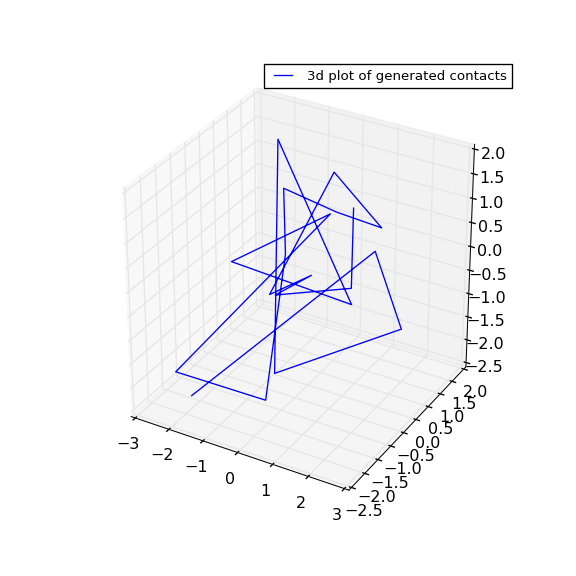
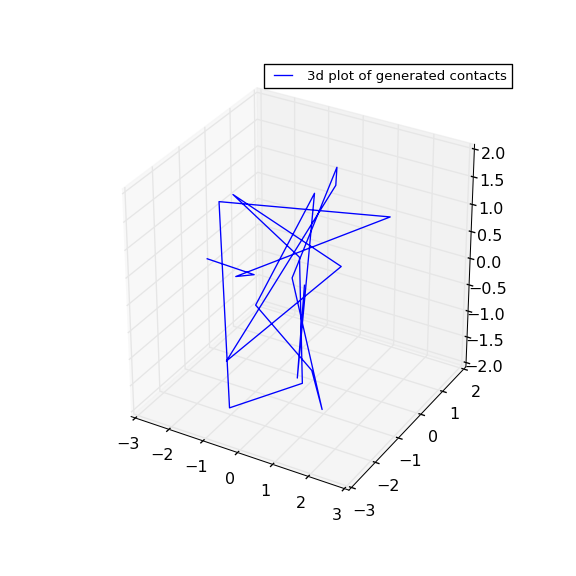
massive speed increase and changes to score calculation

diff --git a/src/ChromoUtils.py b/src/ChromoUtils.py
@@ -25,6 +25,7 @@ class C:
 	da_sq_max = 1.8
 	d_max = 4.5
 	d_sq_c = 7.0
+	d_c = math.sqrt(d_sq_c)
 	d_sq_max = d_max * d_max
 
 	def __init__(self,num_contacts,if_filename=None,if_file=None):
@@ -53,6 +54,7 @@ class C7:
 	da_sq_max = 1.8
 	d_max = 4.5
 	d_sq_c = 7.0
+	d_c = math.sqrt(d_sq_c)
 	d_sq_max = d_max * d_max
 
 	NUMBER_CONTACTS = 157
@@ -81,26 +83,26 @@ class Chromo:
 	        self.coordinate_data[i] = bounding_box * (0.5 - random.random())
 
 	def generate_neighborhood(self,scale=0.5):
-		random_index = random.randint(0,self.C.NUMBER_CONTACTS)
+		index = random.randint(0,self.C.NUMBER_CONTACTS)
 		neighborhood = {}
 		movement = scale
 		for i,dim in enumerate(['x','y','z']):
 			neighborhood[dim] = []
 			plus = copy.copy(self)
 			plus.coordinate_data = copy.copy(self.coordinate_data)
-			plus.coordinate_data[random_index*3+i] += movement
+			plus.coordinate_data[index*3+i] += movement
 			neighborhood[dim].append(plus)
 			minus = copy.copy(self)
 			minus.coordinate_data = copy.copy(self.coordinate_data)
-			minus.coordinate_data[random_index*3+i] -= movement
+			minus.coordinate_data[index*3+i] -= movement
 			neighborhood[dim].append(minus)
-		return neighborhood
+		return (neighborhood,index)
 
 	def random_neighbor(self,scale=0.5):
-		neighborhood = self.generate_neighborhood(scale)
+		(neighborhood,index) = self.generate_neighborhood(scale)
 		dim = random.choice(list(neighborhood.keys()))
 		coin = random.randint(2)
-		return neighborhood[dim][coin]
+		return (neighborhood[dim][coin],index)
 
 
 	def print_model(self):
@@ -117,31 +119,63 @@ class Chromo:
 	    return (a[0] - b[0])**2 + (a[1] - b[1])**2 + (a[2] - b[2])**2
 
 
+	def single_contact_score(self,i):
+		score = 0
+		for j in range(0,self.C.NUMBER_CONTACTS):
+			if i != j and abs(i-j) != 1:
+				d_sq_ij = self.distance_sq(i,j)
+				if d_sq_ij < self.C.d_sq_c:
+					score += self.C.W1 * math.tanh(self.C.d_sq_c - d_sq_ij) * self.max_if(i,j) + self.C.W2 * math.tanh(d_sq_ij - self.C.d_sq_min) / self.C.IF_TOTAL
+		return score
+
 	def contact_score(self):
 	    '''
 	    minimize the distance (but keep above min_threshold) between non-sequential pairs that have affinity
 	    '''
 	    score = 0
 	    for i in range(0,self.C.NUMBER_CONTACTS):
+	    	'''
 	        for j in range(0,self.C.NUMBER_CONTACTS):
-	            if i != j or abs(i-j) != 1:
+	            if i != j and abs(i-j) != 1:
 	                d_sq_ij = self.distance_sq(i,j)
-	                score += self.C.W1 * math.tanh(self.C.d_sq_c - d_sq_ij) * self.max_if(i,j) + self.C.W2 * math.tanh(d_sq_ij - self.C.d_sq_min) / self.C.IF_TOTAL
+	                if d_sq_ij < self.C.d_sq_c:
+	                	score += self.C.W1 * math.tanh(self.C.d_sq_c - d_sq_ij) * self.max_if(i,j) + self.C.W2 * math.tanh(d_sq_ij - self.C.d_sq_min) / self.C.IF_TOTAL
+	    	'''
+	    	score += self.single_contact_score(i)
 	    return score
 
-
+	def single_noncontact_score(self,i):
+		score = 0
+		for j in range(0,self.C.NUMBER_CONTACTS):
+			if i != j and abs(i-j) != 1:
+				d_sq_ij = self.distance_sq(i,j)
+				if d_sq_ij < self.C.d_sq_c:
+					score += self.C.W3 * math.tanh(self.C.d_sq_max - d_sq_ij) / self.C.IF_TOTAL + self.C.W4 * math.tanh(d_sq_ij - self.C.d_sq_c) / self.C.IF_TOTAL
+		return score
+	
 	def noncontact_score(self):
 	    '''
 	    maximize the distance (but keep below max_threshold) between non-sequential pairs that don't have affinity
 	    '''
 	    score = 0
 	    for i in range(0,self.C.NUMBER_CONTACTS):
+	    	'''
 	        for j in range(0,self.C.NUMBER_CONTACTS):
-	            if i != j or abs(i-j) != 1:
+	            if i != j and abs(i-j) != 1:
 	                d_sq_ij = self.distance_sq(i,j)
-	                score += self.C.W3 * math.tanh(self.C.d_sq_max - d_sq_ij) / self.C.IF_TOTAL + self.C.W4 * math.tanh(d_sq_ij - self.C.d_sq_c) / self.C.IF_TOTAL
+	                if d_sq_ij > self.C.d_sq_c:
+	                	score += self.C.W3 * math.tanh(self.C.d_sq_max - d_sq_ij) / self.C.IF_TOTAL + self.C.W4 * math.tanh(d_sq_ij - self.C.d_sq_c) / self.C.IF_TOTAL
+	    	'''
+	    	score += self.single_noncontact_score(i)
 	    return score
 
+	def single_pair_smoothing(self,i):
+		score = 0
+		for j in range(0,self.C.NUMBER_CONTACTS):
+			if abs(i-j) == 1:
+				d_sq_ij = self.distance_sq(i,j)
+				score += self.C.W1 * (self.C.IF_MAX/self.C.IF_TOTAL) * math.tanh(self.C.da_sq_max - d_sq_ij) + self.C.W2 * math.tanh(d_sq_ij - self.C.d_sq_min) / self.C.IF_TOTAL
+		return score
 
 	def pair_smoothing(self):
 	    '''
@@ -149,10 +183,13 @@ class Chromo:
 	    '''
 	    score = 0
 	    for i in range(0,self.C.NUMBER_CONTACTS):
+	    	'''
 	        for j in range(0,self.C.NUMBER_CONTACTS):
 	            if abs(i-j) == 1:
 	                d_sq_ij = self.distance_sq(i,j)
 	                score += self.C.W1 * (self.C.IF_MAX/self.C.IF_TOTAL) * math.tanh(self.C.da_sq_max - d_sq_ij) + self.C.W2 * math.tanh(d_sq_ij - self.C.d_sq_min) / self.C.IF_TOTAL
+	    	'''
+	    	score += self.single_pair_smoothing(i)
 	    return score
 
 
@@ -186,31 +223,61 @@ class Chromo:
 		return (-t/e)*k + t
 
 	def simulated_annealing(seed,epochs,temp,temp_func):
-		current_score = seed.model_score()
-		current_best = seed
+		current_conformation = seed
+		current_score = current_conformation.model_score()
 
 		for i in range(1,epochs+1):
 			T = temp_func(epochs,temp,i)
-			T = T if T > 1e-6 else 1e6
-			new_conformation = current_best.random_neighbor(current_best.C.d_min*T/temp)
-			new_score = new_conformation.model_score()
+			T = T if T > 1e-6 else 1e6 # Prevent divide-by-zero
+			# Generate neighbor and score/diff
+			(new_conformation,index) = current_conformation.random_neighbor(current_conformation.C.d_min*T/temp)
+			minus_score = current_conformation.single_contact_score(index) + current_conformation.single_noncontact_score(index) + current_conformation.single_pair_smoothing(index)
+			plus_score = new_conformation.single_contact_score(index) + new_conformation.single_noncontact_score(index) + new_conformation.single_pair_smoothing(index)
+			new_score = current_score - minus_score + plus_score
 			score_diff = new_score - current_score
+			# New conformation is better, accept
 			if score_diff > 0:
-				current_best = new_conformation
+				current_conformation = new_conformation
 				current_score = new_score
 				print("Iter",i," - Accepting higher score")
 			else:
+				# Limit score diff. Small negative moves may mean
+				# drastic degredation of quality due to hyper-tangent
 				score_diff = 0 if score_diff > -0.005 else score_diff
+				# Scale diff, as changes are normally in the 1e-2 range or below
 				prob_to_accept = math.exp(1000*score_diff/T)
+				# Don't accept 0 score changes due to hyper-tangent above
 				if score_diff != 0 and random.random() < prob_to_accept:
-					current_best = new_conformation
+					current_conformation = new_conformation
 					current_score = new_score
 					print("Iter",i," - Accepting lower score")
 				else:
 					print("Iter",i," - Ignoring lower score")
 			print("Iter",i," - Current score:",current_score)
-			#print(current_best.coordinate_data)
-		return current_best
+			#print(current_conformation.coordinate_data)
+		return current_conformation
+
+	# MCMC
+	def MCMC(seed,epochs):
+		current_conformation = seed
+		current_score = current_conformation.model_score()
+
+		for i in range(1,epochs+1):
+			neighborhood = current_conformation.generate_neighborhood(current_conformation.C.d_min*i/epochs)
+			candidates = [[current_score,current_conformation,0]]
+			min_score = current_score
+			max_score = current_score
+			for neighbor in neighborhood:
+				neighbor_score = neighbor.model_score()
+				candidates.append([neighbor_score,neighbor,0])
+				if neighbor_score < min_score:
+					min_score = neighbor_score
+				if neighbor_score > max_score:
+					max_score = neighbor_score
+			score_range = max_score - min_score
+			for j in len(candidates):
+				candidates[j][2] = (candidates[j][0] - min_score)/score_range
+			
 
 	# shim between skeleton and cg code
 	iter_tracker = 0
